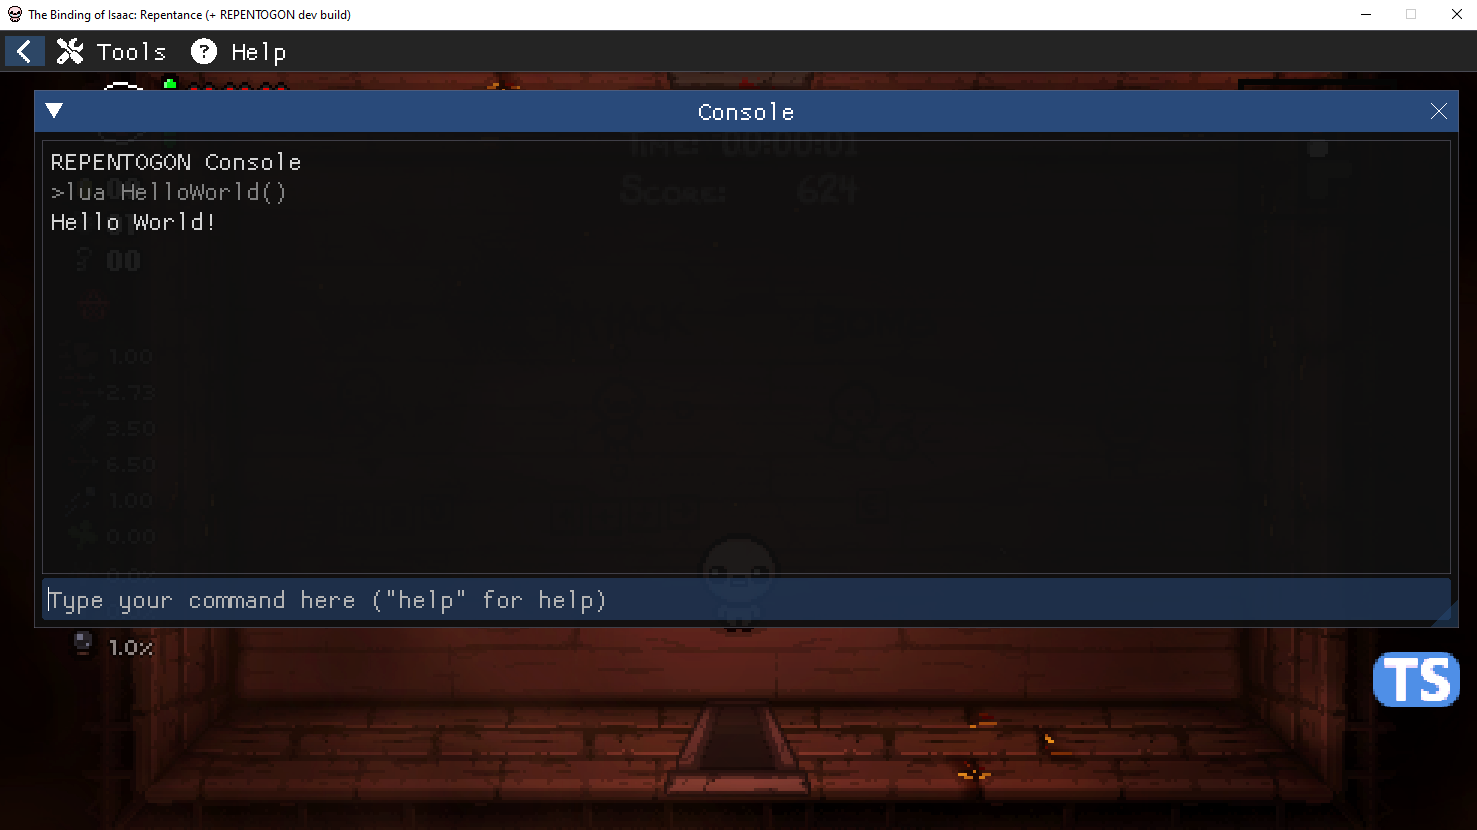
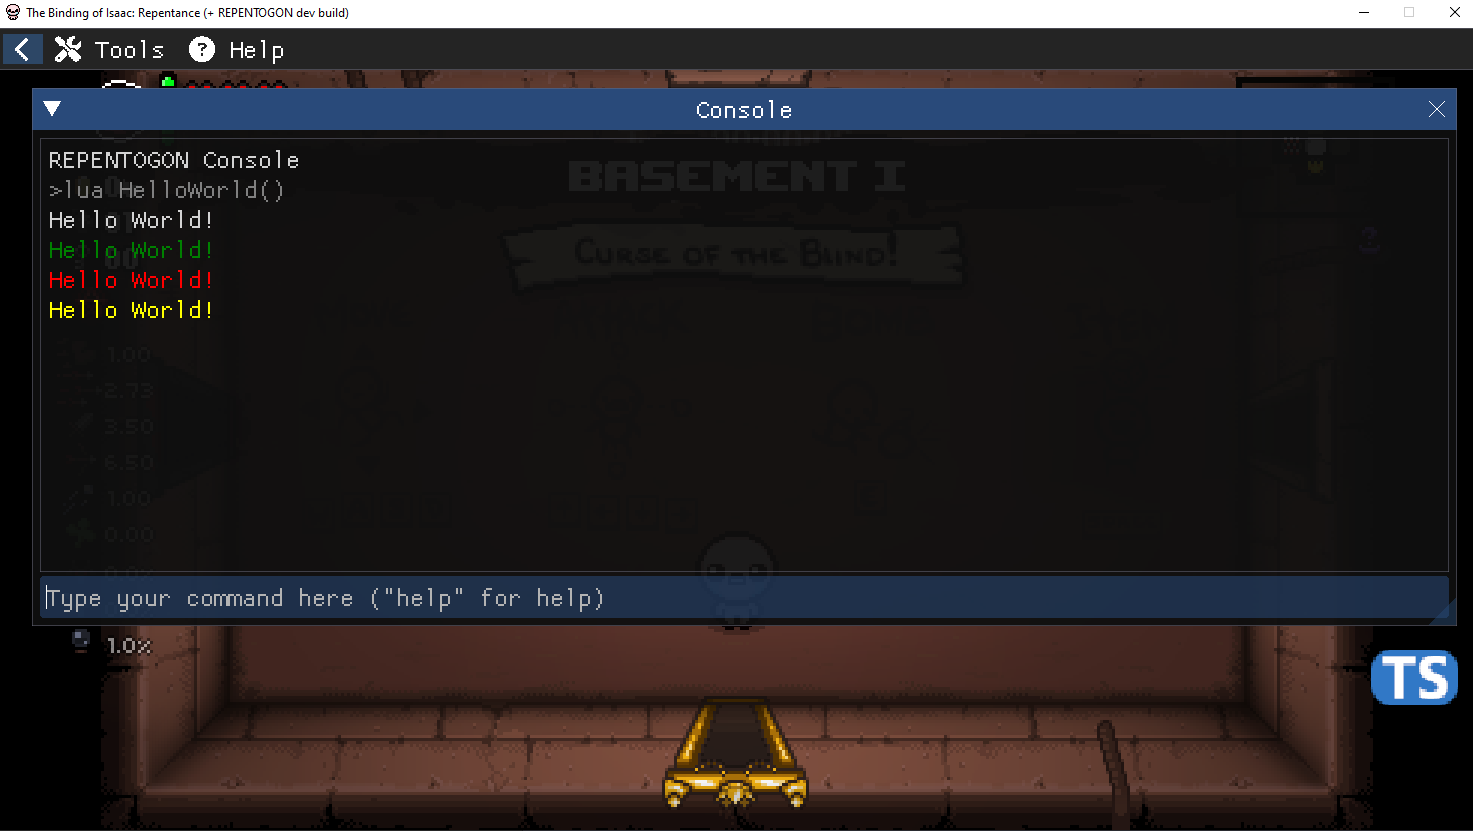
(fix): Extra functionality in lua functions example

Changed region(s): [[0.0, 0.6627, 1.0, 1.0], [0.0, 0.0, 1.0, 0.3916]]

diff --git a/02_lua_function/src/mod.cpp b/02_lua_function/src/mod.cpp
@@ -3,8 +3,18 @@
 #include "IsaacRepentance.h"
 #include "HookSystem.h"
 
+enum Colors : unsigned int
+{
+	Green = 4278222848U,
+	Red = 4294901760U,
+	Yellow = 4294967040U,
+};
+
 LUA_FUNCTION(Lua_Hello_World) {
 	g_Game->GetConsole()->Print("Hello World!\n", Console::Color::WHITE, 0x96U);
+	g_Game->GetConsole()->Print("Hello World!\n", Colors::Green, 0x96U);
+	g_Game->GetConsole()->Print("Hello World!\n", Colors::Red, 0x96U);
+	g_Game->GetConsole()->Print("Hello World!\n", Colors::Yellow, 0x96U);
 	return 0;
 }
 

diff --git a/02_lua_function/README.md b/02_lua_function/README.md
@@ -8,8 +8,18 @@ In this mod, we will be introducing a Lua global function, that will print outpu
 #include "IsaacRepentance.h"
 #include "HookSystem.h"
 
+enum Colors : unsigned int
+{
+	Green = 4278222848U,
+	Red = 4294901760U,
+	Yellow = 4294967040U,
+};
+
 LUA_FUNCTION(Lua_Hello_World) {
 	g_Game->GetConsole()->Print("Hello World!\n", Console::Color::WHITE, 0x96U);
+	g_Game->GetConsole()->Print("Hello World!\n", Colors::Green, 0x96U);
+	g_Game->GetConsole()->Print("Hello World!\n", Colors::Red, 0x96U);
+	g_Game->GetConsole()->Print("Hello World!\n", Colors::Yellow, 0x96U);
 	return 0;
 }
 
@@ -36,6 +46,8 @@ The contents of the the LUA_FUNCTION is pretty straight-forward. We first grab t
 The `return 0;` is important to note. When a Lua function returns, the results are pushed onto the stack in direct order, with the last result being on top after the call. The return integer used in LUA_FUNCTION is specifying the number of returned elements on the stack - in this case, we are not returning anything, since nothing was pushed on to the stack. In the 03. Static Class example mod we will introduce returning data from a LUA_FUNCTION.
 
 Finally, in our HOOK_METHOD, we are pushing the C Function name of the LUA_FUNCTION to the stack, and then, just like the first DLL example, we set it as a global. This will now allow "HelloWorld()" to be called from Lua.
+
+As a bonus, we define a couple of additional colors not defined in REPENTOGON and use those as colors to print to the console with.
 
 ## Building
 Follow the standard build process from the root of this repository.

diff --git a/README.md b/README.md
@@ -6,6 +6,8 @@ While you can continue to create Lua-based mods for The Binding of Isaac, REPENT
 
 This repo will provide various examples, showcasing different things you can do with DLL mods.
 
+__Note__: _This repo is not meant to teach you how to use C++ nor using lua C++ bindings. I also want to point out that I am not an expert in C++ nor lua C++ bindings - the last time I worked in a C language was well over a decade ago._
+
 ## Prerequisites
 To ensure that the build scripts work properly, you will need to have a local development environment set up for REPENTOGON and have completed a successful build. You can follow the [REPENTOGON build steps](https://github.com/TeamREPENTOGON/REPENTOGON?tab=readme-ov-file#building).
 
@@ -37,4 +39,5 @@ Just like the REPENTOGON build process, these mods will utilize CMake 3.1.3+.
 ## Mods
 1. [Basic Scaffolding Mod](01_mod_scaffolding): Basic scaffolding of a DLL mod, that will set a variable in Lua
    that can be checked for.
-2. [Lua Function Mod](02_lua_function): This mod adds a global HelloWorld() function in Lua the prints to the console.
+2. [Lua Function Mod](02_lua_function): Adds a global HelloWorld() function in Lua the prints to the console.
+3. [Static Class Mod](03_static_class): Introduces a static class with methods on it that are usable in Lua.
